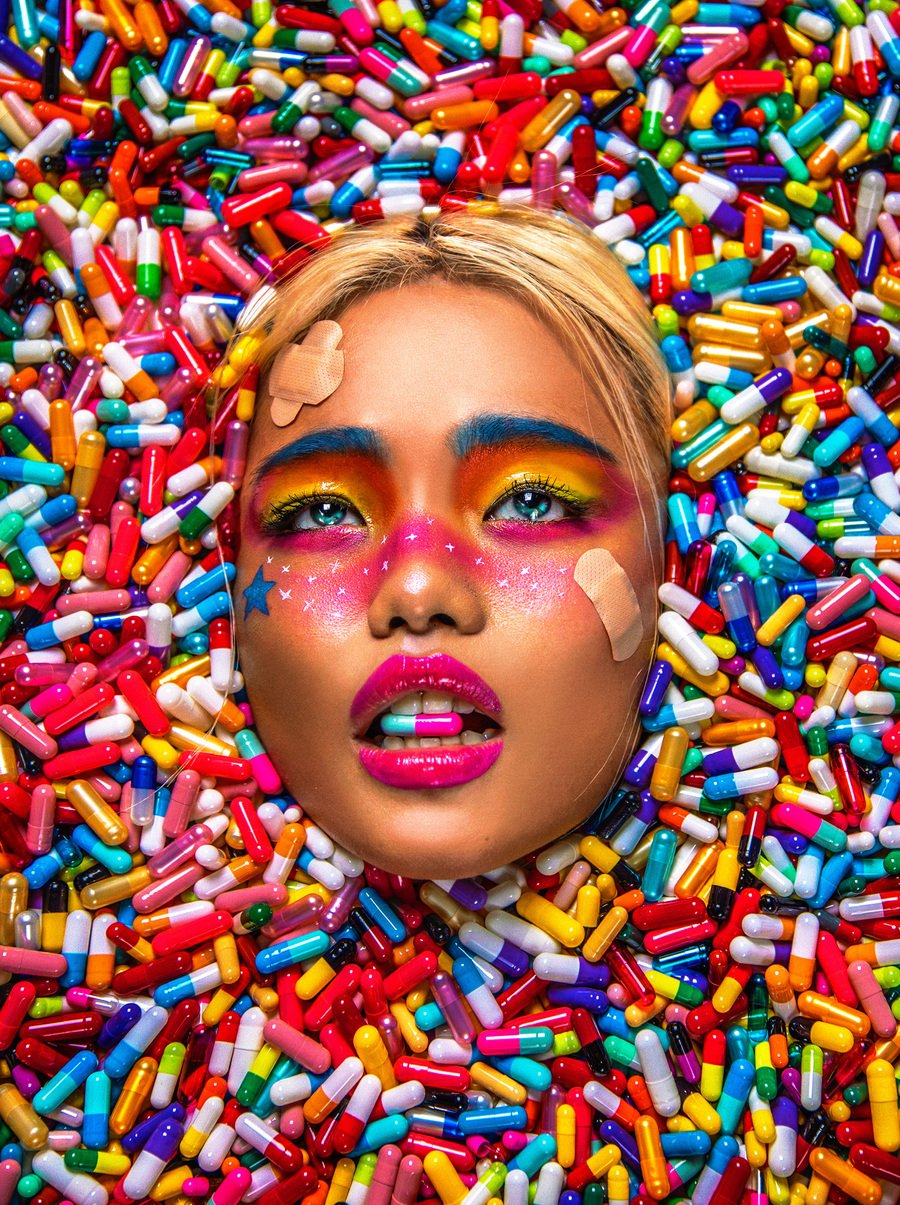
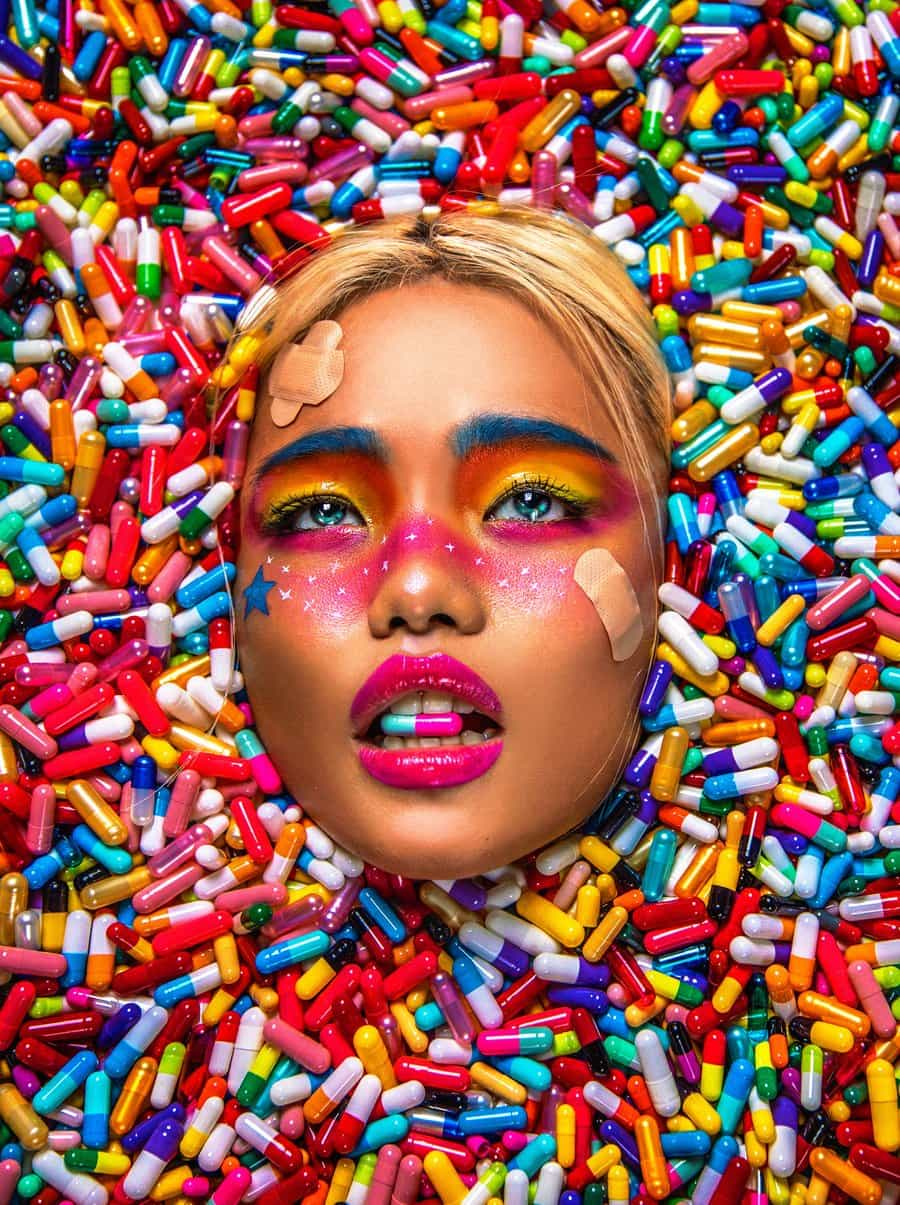
Optimizamos las imagenes y agregamos la meta description

diff --git a/html/lugares.html b/html/lugares.html
@@ -5,6 +5,8 @@
     <meta charset="UTF-8">
     <meta name="viewport" content="width=device-width, initial-scale=1.0">
     <title>Shoott - Portafolio</title>
+        <!-- ETIQUETAS METAS PARA EL SEO -->
+        <meta name=»description» content="Somos una empresa de fotografía comprometida en capturar los momentos más especiales de tu vida con una calidad excepcional y una pasión inigualable por la narración visual.">
     <!-- BOOTSTRAP -->
     <link href="https://cdn.jsdelivr.net/npm/bootstrap@5.3.2/dist/css/bootstrap.min.css" rel="stylesheet"
         integrity="sha384-T3c6CoIi6uLrA9TneNEoa7RxnatzjcDSCmG1MXxSR1GAsXEV/Dwwykc2MPK8M2HN" crossorigin="anonymous">

diff --git a/html/moda.html b/html/moda.html
@@ -5,6 +5,8 @@
     <meta charset="UTF-8">
     <meta name="viewport" content="width=device-width, initial-scale=1.0">
     <title>Shoott - Portafolio</title>
+        <!-- ETIQUETAS METAS PARA EL SEO -->
+        <meta name=»description» content="Somos una empresa de fotografía comprometida en capturar los momentos más especiales de tu vida con una calidad excepcional y una pasión inigualable por la narración visual.">
     <!-- BOOTSTRAP -->
     <link href="https://cdn.jsdelivr.net/npm/bootstrap@5.3.2/dist/css/bootstrap.min.css" rel="stylesheet"
         integrity="sha384-T3c6CoIi6uLrA9TneNEoa7RxnatzjcDSCmG1MXxSR1GAsXEV/Dwwykc2MPK8M2HN" crossorigin="anonymous">

diff --git a/html/retratos.html b/html/retratos.html
@@ -5,6 +5,8 @@
     <meta charset="UTF-8">
     <meta name="viewport" content="width=device-width, initial-scale=1.0">
     <title>Shoott - Portafolio</title>
+        <!-- ETIQUETAS METAS PARA EL SEO -->
+        <meta name=»description» content="Somos una empresa de fotografía comprometida en capturar los momentos más especiales de tu vida con una calidad excepcional y una pasión inigualable por la narración visual.">
     <!-- BOOTSTRAP -->
     <link href="https://cdn.jsdelivr.net/npm/bootstrap@5.3.2/dist/css/bootstrap.min.css" rel="stylesheet"
         integrity="sha384-T3c6CoIi6uLrA9TneNEoa7RxnatzjcDSCmG1MXxSR1GAsXEV/Dwwykc2MPK8M2HN" crossorigin="anonymous">

diff --git a/html/contacto.html b/html/contacto.html
@@ -5,6 +5,8 @@
     <meta charset="UTF-8">
     <meta name="viewport" content="width=device-width, initial-scale=1.0">
     <title>Shoott - Contacto</title>
+        <!-- ETIQUETAS METAS PARA EL SEO -->
+        <meta name=»description» content="Somos una empresa de fotografía comprometida en capturar los momentos más especiales de tu vida con una calidad excepcional y una pasión inigualable por la narración visual.">
     <!-- BOOTSTRAP -->
     <link href="https://cdn.jsdelivr.net/npm/bootstrap@5.3.2/dist/css/bootstrap.min.css" rel="stylesheet"
         integrity="sha384-T3c6CoIi6uLrA9TneNEoa7RxnatzjcDSCmG1MXxSR1GAsXEV/Dwwykc2MPK8M2HN" crossorigin="anonymous">

diff --git a/html/nosotros.html b/html/nosotros.html
@@ -5,6 +5,8 @@
     <meta charset="UTF-8">
     <meta name="viewport" content="width=device-width, initial-scale=1.0">
     <title>Shoott - Nosotros</title>
+        <!-- ETIQUETAS METAS PARA EL SEO -->
+        <meta name=»description» content="Somos una empresa de fotografía comprometida en capturar los momentos más especiales de tu vida con una calidad excepcional y una pasión inigualable por la narración visual.">
     <!-- BOOTSTRAP -->
     <link href="https://cdn.jsdelivr.net/npm/bootstrap@5.3.2/dist/css/bootstrap.min.css" rel="stylesheet"
         integrity="sha384-T3c6CoIi6uLrA9TneNEoa7RxnatzjcDSCmG1MXxSR1GAsXEV/Dwwykc2MPK8M2HN" crossorigin="anonymous">

diff --git a/index.html b/index.html
@@ -5,6 +5,8 @@
     <meta charset="UTF-8">
     <meta name="viewport" content="width=device-width, initial-scale=1.0">
     <title>Shoott - Inicio</title>
+    <!-- ETIQUETAS METAS PARA EL SEO -->
+    <meta name=»description» content="Somos una empresa de fotografía comprometida en capturar los momentos más especiales de tu vida con una calidad excepcional y una pasión inigualable por la narración visual.">
     <!-- BOOTSTRAP -->
     <link href="https://cdn.jsdelivr.net/npm/bootstrap@5.3.2/dist/css/bootstrap.min.css" rel="stylesheet"
         integrity="sha384-T3c6CoIi6uLrA9TneNEoa7RxnatzjcDSCmG1MXxSR1GAsXEV/Dwwykc2MPK8M2HN" crossorigin="anonymous">
